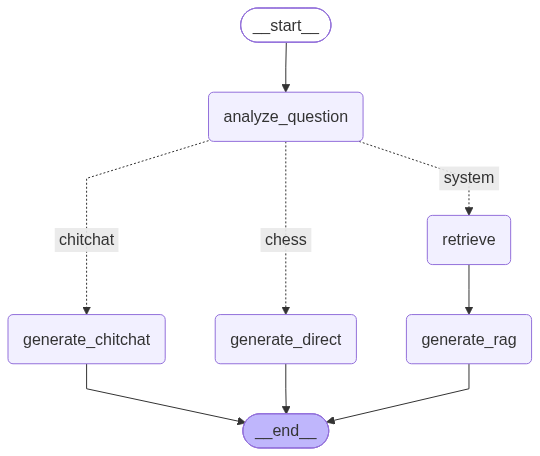
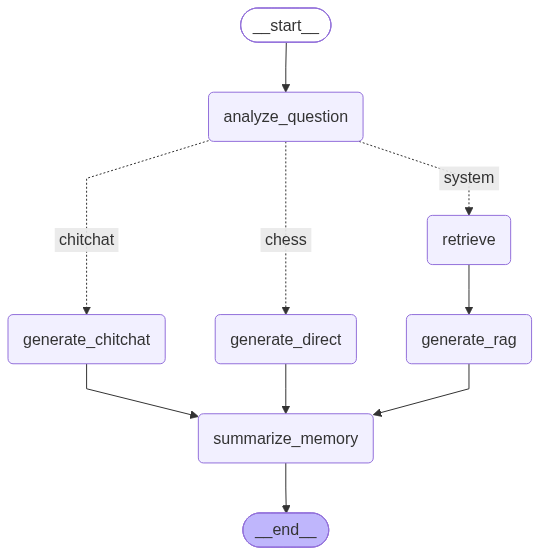
feat(ai): implement memory summarization and dedicated router model
- Replace sliding window history with 'summarize_memory' node to periodically compress chat history using LLM.
- Route generation nodes through the summarizer node before END.
- Filter event stream in chat API to prevent streaming background summarization to the client.
- Introduce 'router_model' configuration (e.g., Llama 3 8B) for lightweight tasks (analyze_question, summarize_memory) to significantly reduce token costs while preserving 70B for generation.
- Update tests to patch the new router LLM dependency.

diff --git a/ai-service/app/graph/nodes.py b/ai-service/app/graph/nodes.py
@@ -1,10 +1,10 @@
 from typing import Literal
 
-from langchain_core.messages import AIMessage, HumanMessage, SystemMessage
+from langchain_core.messages import AIMessage, HumanMessage, RemoveMessage, SystemMessage
 from langchain_core.output_parsers import StrOutputParser
 from pydantic import BaseModel, Field
 
-from app.ai.llm import get_llm
+from app.ai.llm import get_llm, get_router_llm
 from app.ai.prompts import RAG_PROMPT
 from app.ai.retriever import retrieve
 from app.graph.state import RagState
@@ -26,11 +26,11 @@ class QuestionAnalysis(BaseModel):
 
 
 def analyze_question(state: RagState) -> dict:
-    # ponytail: Sliding window of 6 cuts cost now. Ceiling: loses long context.
-    # Upgrade path: LLM summarization of past messages (memory summarization).
-    history = state.get("chat_history", [])[-6:]
+    # ponytail: The router only needs the immediate context (last 2 turns) to resolve pronouns.
+    # Passing the full summary here wastes tokens.
+    history = state.get("chat_history", [])[-4:]
     history_text = (
-        "\n".join(f"{m.type}: {m.content}" for m in history) or "(none)"
+            "\n".join(f"{m.type}: {m.content}" for m in history) or "(none)"
     )
     prompt = (
         "Given the chat history and a follow-up question, do two things:\n"
@@ -39,7 +39,7 @@ def analyze_question(state: RagState) -> dict:
         f"Chat history:\n{history_text}\n\n"
         f"Follow-up question: {state['original_question']}"
     )
-    result = get_llm().with_structured_output(QuestionAnalysis).invoke(prompt)
+    result = get_router_llm().with_structured_output(QuestionAnalysis).invoke(prompt)
     return {
         "rewritten_question": result.rewritten_question,
         "question_type": result.category,
@@ -52,11 +52,11 @@ def retrieve_docs(state: RagState) -> dict:
 
 
 def generate_rag(state: RagState) -> dict:
-    recent_history = state.get("chat_history", [])[-6:]
+    history = state.get("chat_history", [])
     answer = (RAG_PROMPT | get_llm() | StrOutputParser()).invoke(
         {
             "context": "\n\n".join(state["documents"]),
-            "history": recent_history,
+            "history": history,
             "question": state["rewritten_question"],
         }
     )
@@ -68,10 +68,10 @@ def generate_rag(state: RagState) -> dict:
 
 
 def generate_direct(state: RagState) -> dict:
-    recent_history = state.get("chat_history", [])[-6:]
+    history = state.get("chat_history", [])
     messages = [
         SystemMessage("Answer this chess-related question clearly and accurately."),
-        *recent_history,
+        *history,
         HumanMessage(state["rewritten_question"]),
     ]
     answer = get_llm().invoke(messages).content
@@ -82,14 +82,14 @@ def generate_direct(state: RagState) -> dict:
 
 
 def generate_chitchat(state: RagState) -> dict:
-    recent_history = state.get("chat_history", [])[-6:]
+    history = state.get("chat_history", [])
     messages = [
         SystemMessage(
             "You are a friendly assistant for a chess platform. "
             "Respond briefly and warmly to this message. If it's off-topic "
             "small talk, gently note you're best at chess and platform questions."
         ),
-        *recent_history,
+        *history,
         HumanMessage(state["rewritten_question"]),
     ]
     answer = get_llm().invoke(messages).content
@@ -97,3 +97,26 @@ def generate_chitchat(state: RagState) -> dict:
         "answer": answer,
         "chat_history": [HumanMessage(state["original_question"]), AIMessage(answer)],
     }
+
+
+def summarize_memory(state: RagState) -> dict:
+    history = state.get("chat_history", [])
+    # 1 system msg + 3 human/ai pairs = 7 messages. If > 6, we summarize.
+    if len(history) <= 6:
+        return {}
+
+    # Summarize all EXCEPT the last 2 (the latest turn we just added)
+    messages_to_summarize = history[:-2]
+    history_text = "\n".join(f"{m.type}: {m.content}" for m in messages_to_summarize)
+
+    summary_prompt = (
+        "Distill the following chat history into a concise summary. "
+        "Keep user preferences (like language) and key discussion points.\n\n"
+        f"{history_text}"
+    )
+    summary = get_router_llm().invoke(summary_prompt).content
+
+    delete_msgs = [RemoveMessage(id=m.id) for m in messages_to_summarize if getattr(m, 'id', None)]
+    new_summary_msg = SystemMessage(content=f"Summary of previous conversation:\n{summary}")
+
+    return {"chat_history": delete_msgs + [new_summary_msg]}

diff --git a/ai-service/app/graph/builder.py b/ai-service/app/graph/builder.py
@@ -9,6 +9,7 @@ from app.graph.nodes import (
     generate_direct,
     generate_rag,
     retrieve_docs,
+    summarize_memory,
 )
 from app.graph.state import RagState
 
@@ -20,6 +21,7 @@ def _build() -> StateGraph:
     g.add_node("generate_rag", generate_rag)
     g.add_node("generate_direct", generate_direct)
     g.add_node("generate_chitchat", generate_chitchat)
+    g.add_node("summarize_memory", summarize_memory)
     g.set_entry_point("analyze_question")
     g.add_conditional_edges(
         "analyze_question",
@@ -27,9 +29,10 @@ def _build() -> StateGraph:
         {"system": "retrieve", "chess": "generate_direct", "chitchat": "generate_chitchat"},
     )
     g.add_edge("retrieve", "generate_rag")
-    g.add_edge("generate_rag", END)
-    g.add_edge("generate_direct", END)
-    g.add_edge("generate_chitchat", END)
+    g.add_edge("generate_rag", "summarize_memory")
+    g.add_edge("generate_direct", "summarize_memory")
+    g.add_edge("generate_chitchat", "summarize_memory")
+    g.add_edge("summarize_memory", END)
     return g
 
 

diff --git a/ai-service/tests/test_chat.py b/ai-service/tests/test_chat.py
@@ -32,7 +32,7 @@ def test_analyze_question_returns_rewrite_and_type():
     mock_llm = MagicMock()
     mock_llm.with_structured_output.return_value.invoke.return_value = mock_result
 
-    with patch("app.graph.nodes.get_llm", return_value=mock_llm):
+    with patch("app.graph.nodes.get_router_llm", return_value=mock_llm):
         out = analyze_question(_state(original_question="What is en passant?"))
 
     assert out["rewritten_question"] == "What is en passant exactly?"
@@ -45,7 +45,7 @@ def test_analyze_question_includes_history_in_prompt():
     mock_llm.with_structured_output.return_value.invoke.return_value = mock_result
 
     history = [HumanMessage("prev question"), AIMessage("prev answer")]
-    with patch("app.graph.nodes.get_llm", return_value=mock_llm):
+    with patch("app.graph.nodes.get_router_llm", return_value=mock_llm):
         analyze_question(_state(original_question="follow up", chat_history=history))
 
     prompt_arg = mock_llm.with_structured_output.return_value.invoke.call_args.args[0]

diff --git a/ai-service/app/ai/llm.py b/ai-service/app/ai/llm.py
@@ -18,3 +18,18 @@ def get_llm():
     from langchain_openai import ChatOpenAI
 
     return ChatOpenAI(model=settings.openai_model, api_key=settings.openai_api_key)
+
+
+@lru_cache
+def get_router_llm():
+    settings = get_settings()
+    if settings.llm_provider == "groq":
+        if not settings.groq_api_key:
+            raise ValueError("GROQ_API_KEY is required")
+        return ChatGroq(model=settings.groq_router_model, api_key=settings.groq_api_key)
+
+    if not settings.openai_api_key:
+        raise ValueError("OPENAI_API_KEY is required")
+    from langchain_openai import ChatOpenAI
+
+    return ChatOpenAI(model=settings.openai_router_model, api_key=settings.openai_api_key)

diff --git a/ai-service/app/api/routes/chat.py b/ai-service/app/api/routes/chat.py
@@ -67,7 +67,7 @@ async def chat(
                         if isinstance(output, dict) and "question_type" in output:
                             question_type = output["question_type"]
 
-                    if event["event"] == "on_chat_model_stream":
+                    if event["event"] == "on_chat_model_stream" and node in ("generate_rag", "generate_direct", "generate_chitchat"):
                         chunk = event["data"]["chunk"].content
                         if chunk:
                             full_answer += chunk

diff --git a/ai-service/app/core/config.py b/ai-service/app/core/config.py
@@ -15,8 +15,10 @@ class Settings(BaseSettings):
     llm_provider: Literal["groq", "openai"] = "groq"
     groq_api_key: str | None = None
     groq_model: str = "llama-3.3-70b-versatile"
+    groq_router_model: str = "llama-3.1-8b-instant"
     openai_api_key: str | None = None
     openai_model: str = "gpt-4o-mini"
+    openai_router_model: str = "gpt-4o-mini"
 
     embedding_provider: Literal["huggingface", "openai"] = "huggingface"
     huggingface_api_key: str | None = None

diff --git a/ai-service/docs/graph.md b/ai-service/docs/graph.md
@@ -13,15 +13,17 @@ graph TD;
 	generate_rag(generate_rag)
 	generate_direct(generate_direct)
 	generate_chitchat(generate_chitchat)
+	summarize_memory(summarize_memory)
 	__end__([<p>__end__</p>]):::last
 	__start__ --> analyze_question;
 	analyze_question -. &nbsp;chitchat&nbsp; .-> generate_chitchat;
 	analyze_question -. &nbsp;chess&nbsp; .-> generate_direct;
 	analyze_question -. &nbsp;system&nbsp; .-> retrieve;
+	generate_chitchat --> summarize_memory;
+	generate_direct --> summarize_memory;
+	generate_rag --> summarize_memory;
 	retrieve --> generate_rag;
-	generate_chitchat --> __end__;
-	generate_direct --> __end__;
-	generate_rag --> __end__;
+	summarize_memory --> __end__;
 	classDef default fill:#f2f0ff,line-height:1.2
 	classDef first fill-opacity:0
 	classDef last fill:#bfb6fc
